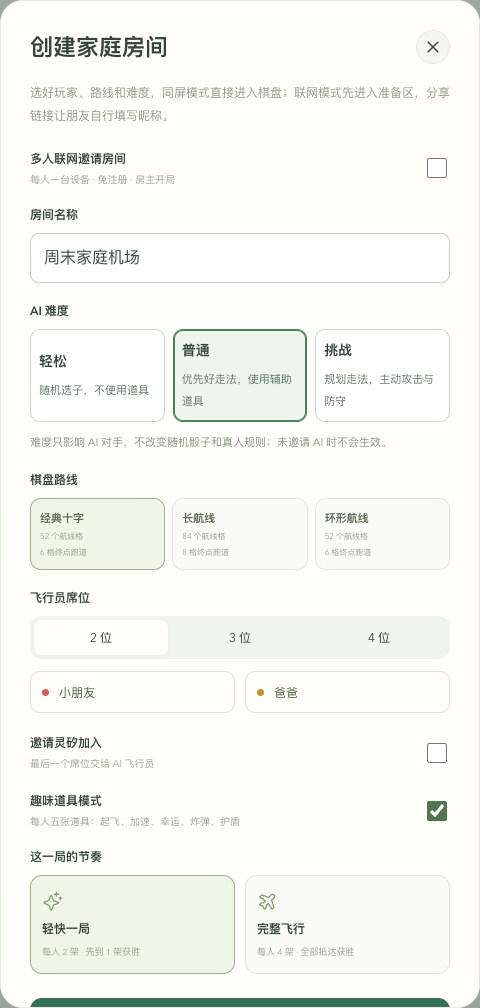
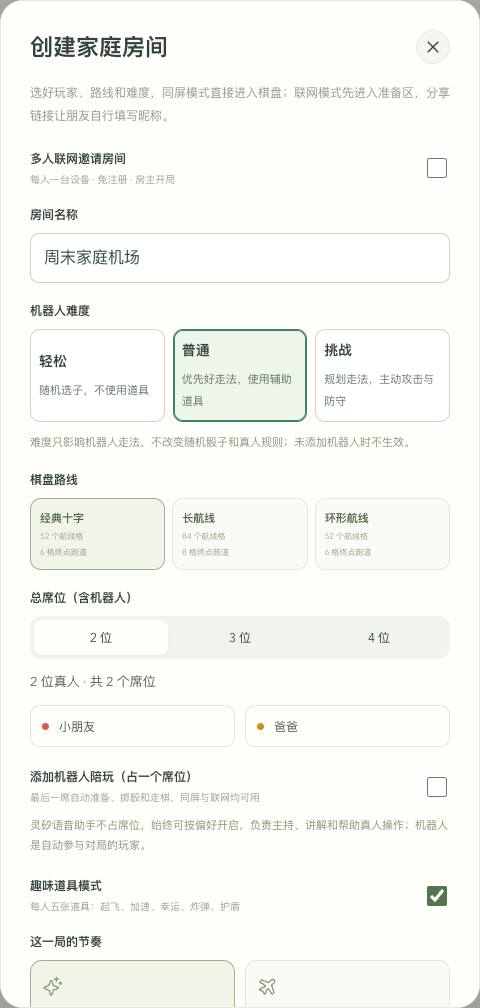
docs: refresh mixed bot room screenshots and public play evidence (#23)

diff --git a/README.md b/README.md
@@ -8,7 +8,7 @@
 
 ## 怎么玩
 
-1. 首页点 **创建游戏**，设置房间名称、2～4 个席位、AI 难度、棋盘和道具模式。
+1. 首页点 **创建游戏**，设置房间名称、2～4 个总席位、机器人难度、棋盘和道具模式。
 2. 创建后进入独立的 **大棋盘对局页**：棋盘、玩家与语音助手常驻，道具从“道具口袋”打开。
 3. 首次进入先看三步指南，引导期间保持安静；完成或跳过后再按偏好连接语音。点击掷骰，选飞机看预计落点，确认后再飞行；也可允许麦克风后直接说话，**无需唤醒词**。骰子弹窗结束后才播放走棋和起飞效果。
 
@@ -16,7 +16,9 @@
 
 ### 邀请朋友联网玩
 
-创建游戏时打开 **多人联网邀请房间**，选择 2～4 个真人席位并填写自己的昵称。进入准备区后点 **复制邀请链接**，发给朋友；每位朋友各用一台设备打开链接，填昵称入座并点 **我准备好了**。所有席位在线且准备好后，房主点 **开始游戏**。
+创建游戏时打开 **多人联网邀请房间**，选择 2～4 个总席位（含机器人）并填写自己的昵称。可勾选 **添加机器人陪玩（占一个席位）**，最后一席会自动准备；例如两位家人加一个机器人，选择 3 席。进入准备区后点 **复制邀请链接**，发给朋友；每位朋友各用一台设备打开链接，填昵称入座并点 **我准备好了**。所有真人席位在线且准备好后，房主点 **开始游戏**。
+
+机器人自动掷骰、走棋和按难度用卡，无需设备或麦克风；灵矽语音助手不占席位，负责主持、讲解与帮助真人操作。机器人难度与语音服务是否配置互相独立。
 
 每个人只能为自己的席位掷骰、用卡和走棋，语音工具也受相同校验；轮到你时才连接对讲，其他回合可看棋盘、听主动播报。掉线后席位保留，**同一浏览器**返回游戏或原邀请链接即可继续；准备区客人可以退出释放空位。首版房主不转让，掉线玩家不自动托管，可由房主暂停等待。
 
@@ -38,6 +40,10 @@
 | --- | --- |
 | ![独立席位准备与邀请](docs/images/network/lobby-desktop.png) | ![真实统计与同配置再玩](docs/images/network/settlement-desktop.png) |
 
+| 真人＋机器人 | 混合局结算 |
+| --- | --- |
+| ![机器人自动准备的混合房间](docs/images/network-bot/mixed-lobby-desktop.png) | ![真人与机器人本局战绩](docs/images/network-bot/mixed-result.png) |
+
 [查看手机对局页](docs/images/current/play-mobile.png) · [终点撒花](docs/images/finish-confetti.png) · [截图版本与复跑方式](docs/SCREENSHOTS.md)
 
 主图及上表为 2026-10-24 从运行中的应用重新截取，非设计稿。截图时关闭语音采集与自动播报，不申请麦克风；语音实测单独记录在 [QA-VOICE](docs/QA-VOICE.md)。
@@ -46,9 +52,9 @@
 
 | 能力 | 当前实现 |
 | --- | --- |
-| 联网邀请房间 | 免注册邀请、2～4 个独立席位、准备/在线状态、房主控制、原浏览器掉线重连 |
+| 联网邀请房间 | 免注册邀请、2～4 个总席位、可加一位机器人；真人准备/在线状态、房主控制、原浏览器掉线重连 |
 | 结算再玩 | 动作级累计五项真实统计、刷新不重复、同配置再玩；联网保留席位 |
-| 同屏家庭房间 | 2～4 席、昵称、可选一名规则策略 AI；轻松/普通/挑战三档难度 |
+| 机器人陪玩 | 同屏或联网添加一位机器人，占最后一席；Go 规则策略自动行动，轻松/普通/挑战三档 |
 | 三种棋盘 | 经典十字 52 格、长航线 84 格、环形航线 52 格；Three.js 棋盘、飞机编号、2D 降级 |
 | 新手与预览 | 首次三步指南、跳过/重看、回合提示；预览服务端合法落点与特殊效果，确认后移动 |
 | 两种节奏 | 轻快一局：每人 2 架，先到 1 架获胜；完整飞行：每人 4 架，全部抵达获胜 |
@@ -121,7 +127,7 @@ LINGXI_REALTIME_API_KEY=你的服务端API密钥
 
 ## 当前限制与下一步
 
-- 联网首版是 **真人邀请房间**；没有账号/好友、房主转让、自动托管、跨浏览器找回或联网 AI 席位。同屏仍支持规则 AI。
+- 联网支持 **真人＋一个机器人**，总席位 2～4；机器人自动行动，掉线真人不会自动变成机器人。仍没有账号/好友、房主转让、自动托管或跨浏览器身份找回。
 - **棋局保存在服务内存中**。同一浏览器刷新可继续，服务重启会失效；无监听且空闲约 4 小时的房间会清理。持久化存档是后续可靠性任务。
 - 已有本局结算与同配置再玩，跨局历史战绩仍待持久化支持。
 - 真实平台、自动浏览器及有限真人操作/打断已验证；手机宽度截图属于响应式检查，真实 Android/iOS、噪声、回声和亲子完整局继续在 [M3](https://github.com/zkevindev/flytogether/issues/3) 验收。
@@ -143,6 +149,7 @@ npm --prefix web run build
 
 ```sh
 QA_BASE_URL=http://127.0.0.1:8080 npm --prefix web run test:network:browser
+QA_BASE_URL=http://127.0.0.1:8080 npm --prefix web run test:network:bot
 QA_BASE_URL=http://127.0.0.1:8080 npm --prefix web run test:coach:browser
 QA_BASE_URL=http://127.0.0.1:8080 npm --prefix web run test:flows:browser
 QA_BASE_URL=http://127.0.0.1:8080 npm --prefix web run test:onboarding:browser

diff --git a/docs/QA-NETWORK.md b/docs/QA-NETWORK.md
@@ -31,7 +31,7 @@ Go race 测试另覆盖邀请错误/满员、原 Cookie 回已开局房间、客
 
 ## 边界
 
-免注册凭据绑定原浏览器；清理 Cookie 或换设备不能找回同一席位。开局后不自动替补或托管，房主不转让，暂不支持联网 AI 席位。服务器仍为单进程内存，重启/部署后游戏失效，未完成持久化存档。
+免注册凭据绑定原浏览器；清理 Cookie 或换设备不能找回同一席位。开局后不自动替补或托管，房主不转让。#23 已增加一个联网机器人席位，见文末混合房间验收。服务器仍为单进程内存，重启/部署后游戏失效，未完成持久化存档。
 
 本轮联机脚本无麦克风；语音工具身份隔离使用受控单测，真实 Lingxi 的合成 WAV 回归另记入 QA-VOICE。没有声称完成多位真人同时开麦、回声/噪声、真实手机或亲子全局体验。
 
@@ -53,3 +53,25 @@ QA_BASE_URL=http://127.0.0.1:8080 \
 QA_AUDIO_FILE=/本机合成WAV文件路径 \
 npm --prefix web run test:network:voice
 ```
+
+
+## 真人＋机器人混合房间（#23，2026-10-24）
+
+服务端 [4251014](https://github.com/zkevindev/flytogether/commit/4251014)，界面与浏览器脚本 [f4b1ac0](https://github.com/zkevindev/flytogether/commit/f4b1ac0)，均 main。
+
+- 创建页联网勾选后机器人选项仍可使用，明确显示“2 位真人 + 1 位机器人”，并解释语音助手不占席位。
+- 实际 Chrome 两位独立 Cookie 真人＋挑战机器人：机器人自动准备，无需第三台设备，真人未就位前仍不能开局；额外邀请不能占用机器人席位。
+- 机器人回合真人投掷/语音连接被拒绝；房主暂停超过两个 AI tick 后版本不变，继续后自动行动。
+- 通过正式随机投掷、合法走法和真实服务端 AI 调度自然完成一局。结算含机器人真实动作计数；再玩保留房间、真人席位、机器人和难度，统计清零，真人重新准备，机器人自动准备。
+- 边界：1 真人＋轻松机器人（总2席）不用道具；3 真人＋普通机器人（总4席）使用辅助道具；两种均实际准备、开局和结束回首页。两真人＋挑战机器人自然局已验证攻击与道具使用。
+- Go race 另验证 2/3/4 席边界、昵称/机器人席位保护、准备规则、机器人暂停、重开与原权限。
+- 原纯真人联机脚本和同屏页面流程回归通过。
+
+脚本使用实际 Chrome、正常服务端 API 和 AI 定时器，无固定骰子、注入棋盘或测试专用接口。关闭麦克风和播报；本轮功能不依赖灵矽凭据，不替代真实家庭声学验收。混合局截图见 `images/network-bot/`。
+
+```sh
+QA_BASE_URL=http://127.0.0.1:8080 npm --prefix web run test:network:bot
+```
+
+
+公网 f4b1ac0 复测：挑战机器人自然获胜，真实统计为 rolls=18、takeoffs=3、arrivals=1、captures=1、props_used=5。与本地随机样本不同，说明没有固定局面。首轮长局 GET 曾一次 ETIMEDOUT，健康与发布核对正常；脚本补有界只读重试、写命令仅沿用原 command ID 重试后重新完整验收。统计和权限判定仍由 Go 完成，不把网络超时当成新的投掷请求。

diff --git a/docs/SCREENSHOTS.md b/docs/SCREENSHOTS.md
@@ -45,3 +45,8 @@ npm --prefix web run capture:docs
 ## 邀请房间与结算
 
 新增 [`images/network/manifest.json`](images/network/manifest.json) 独立记录本次应用 293d3b2 的四张联网截图：桌面/手机准备区、桌面/手机自然获胜结算。由 `test:network:browser` 使用独立 Cookie、实际随机骰子与合法走法采集；关闭麦克风及播报，不记录邀请链接或身份凭据。脚本没有注入棋盘位置。复跑时用 `QA_OUTPUT_DIR` 指定临时目录，挑选有效截图后更新对应哈希清单。
+
+
+## 真人＋机器人（#23）
+
+当前同屏/创建界面 10 张与纯真人联机 4 张已更新到 f4b1ac0，新增 [`images/network-bot/`](images/network-bot/) 的混合房间配置、桌面/手机自动准备、自然结算四张，来源、视口与 SHA-256 见各目录 manifest。混合局通过正式邀请、真实随机投掷和服务端机器人调度推进，无注入状态；图中机器人有独立标记且不需要第三台设备。创建弹窗截图滚动到机器人配置区，以展示席位组成与语音助手说明。

diff --git a/docs/ROADMAP.md b/docs/ROADMAP.md
@@ -96,7 +96,7 @@
 
 ## P2：扩展产品形态
 
-用户选择的 #22 已实现独立邀请凭证、席位 Cookie、房主权限、准备/在线状态、原浏览器重连和当前玩家操作授权。首版不含账号、房主转让、自动托管和服务重启恢复；真实手机与多人声学环境仍由 #3 验收。其他可选扩展有主题棋盘、挑战玩法、安装到桌面和更多主持风格。
+用户选择的 #23 已补齐真人＋一个机器人混合房间，总2～4席，机器人自动准备并按难度行动，语音助手不占席位。#22 已实现独立邀请凭证、席位 Cookie、房主权限、准备/在线状态、原浏览器重连和当前玩家操作授权。首版不含账号、房主转让、自动托管和服务重启恢复；真实手机与多人声学环境仍由 #3 验收。其他可选扩展有主题棋盘、挑战玩法、安装到桌面和更多主持风格。
 
 ## 实施顺序与发布门槛
 
